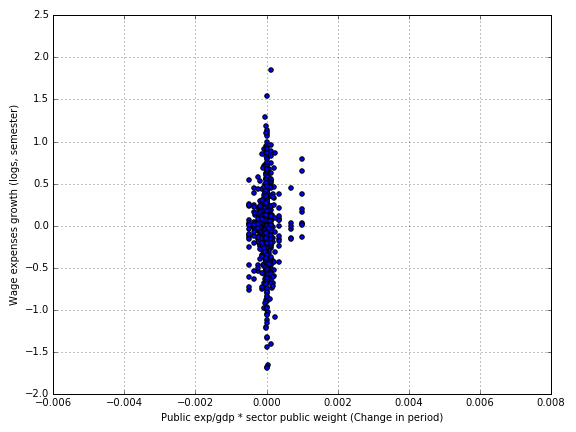
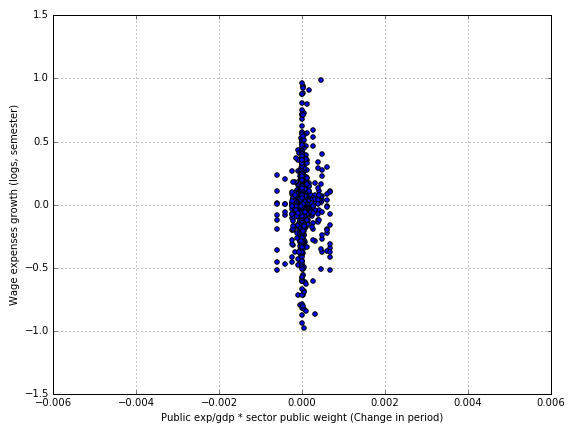
wage data is trimmed.

diff --git a/README.md b/README.md
@@ -274,22 +274,22 @@ Then it appears that companies that are more exposed to the public sector suffer
 
 Log salary expense | (1) | (2) | (3) | (4)
 --- | :---: | :---: | :---: | :---:
-**log_epu** | -0.092 |   | -0.091 |  
- | 0.000 |   | 0.000 |  
-**epu_weighted** |   | 1.208 |   | 1.785
- |   | 0.089 |   | 0.029
-**ibex35** |   |   | -0.001 |  
- |   |   | 0.934 |  
-**ibex_weighted** |   |   |   | -1.127
- |   |   |   | 0.186
-**spending** | 3.313 |   | 3.341 |  
- | 0.003 |   | 0.004 |  
-**spend_weighted** |   | 235.244 |   | 243.803
- |   | 0.008 |   | 0.007
-**lag_expend** | -118.866 | 34.601 | -118.178 | 88.454
- | 0.076 | 0.724 | 0.080 | 0.402
-**r2** | 0.009 | 0.049 | 0.009 | 0.051
-**N** | 1640 | 1640 | 1640 | 1640
+**log_epu** | -0.033 |   | -0.034 |  
+ | 0.036 |   | 0.030 |  
+**epu_weighted** |   | 0.226 |   | 0.842
+ |   | 0.604 |   | 0.093
+**ibex35** |   |   | 0.007 |  
+ |   |   | 0.527 |  
+**ibex_weighted** |   |   |   | -1.333
+ |   |   |   | 0.011
+**spending** | -0.956 |   | -1.091 |  
+ | 0.179 |   | 0.142 |  
+**spend_weighted** |   | 85.991 |   | 112.544
+ |   | 0.113 |   | 0.041
+**lag_expend** | -38.893 | -94.463 | -42.263 | -48.325
+ | 0.363 | 0.090 | 0.327 | 0.399
+**r2** | 0.016 | 0.081 | 0.017 | 0.084
+**N** | 1642 | 1642 | 1642 | 1642
 **Time&firm eff.** | False | True | False | True
 
 
